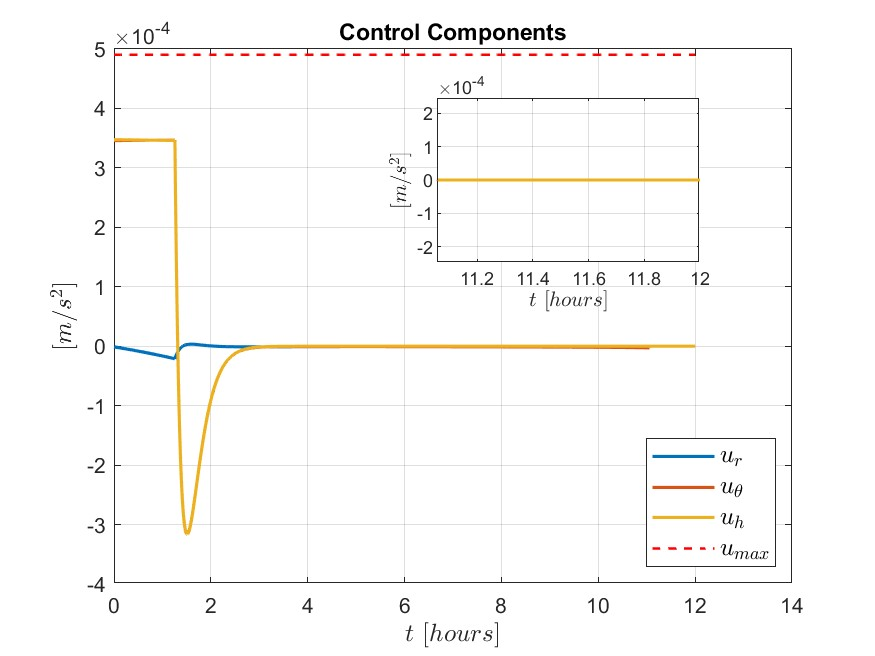
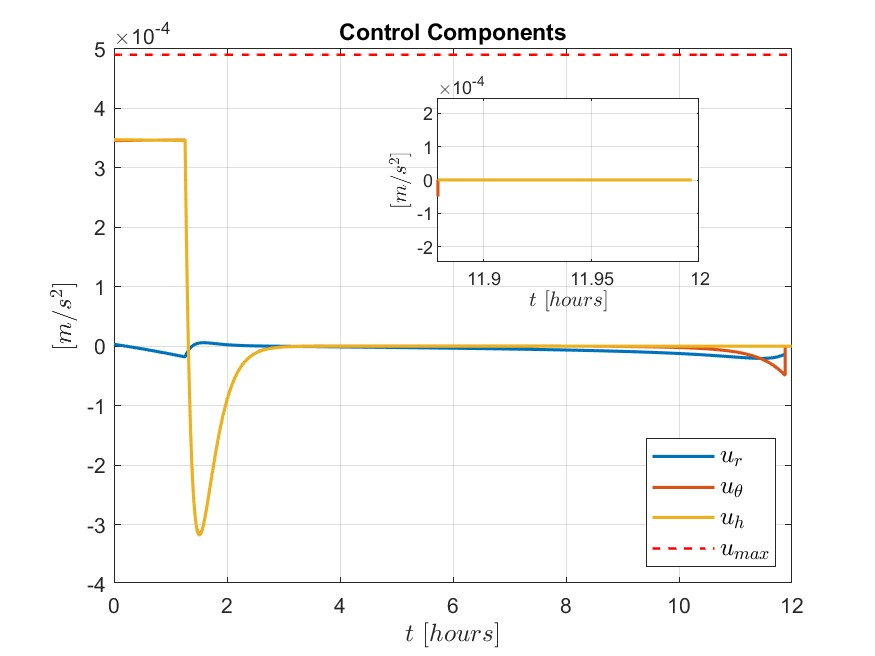
Tc saturation and bug fixes
- added saturation on the value of Tc
- fixed a bug with compute_target

diff --git a/main.m b/main.m
@@ -79,9 +79,6 @@ if opt.compute_target
     [X0t_MCI, COE0t, MEE0t, EarthPPsMCI, DSGPPsMCI, SunPPsMCI, MoonPPsECI, time, t0, tf, opt.N] = ...
         EphemerisHandlerExp(deltaE, psiM, deltaM, opt.N, date0, datef);
     
-    % Combine the Target and Chaser States into TC ~ [Target; Chaser] State
-    TC0 = [MEE0t; RHO0_LVLH];
-    
     % Define the timespan for the propagation
     tspan_ref = linspace(t0, tf, opt.N);
     dt_ref = tspan_ref(2) - tspan_ref(1);
@@ -110,11 +107,14 @@ if opt.compute_target
 
 else
 
-    load('Data/temp/Target Propagation.mat', 'X0t_MCI', 'COE0t', 'MEE0t', 'EarthPPsMCI', 'DSGPPsMCI', 'SunPPsMCI', 'MoonPPsECI', 'time', 't0', 'tf', 'TC0', 'tspan_ref', 'dt_ref', 'MEEt_ref', 'COEt_ref', 'Xt_MCI_ref', 'omegadotPPsLVLH');
+    load('Data/temp/Target Propagation.mat', 'X0t_MCI', 'COE0t', 'MEE0t', 'EarthPPsMCI', 'DSGPPsMCI', 'SunPPsMCI', 'MoonPPsECI', 'time', 't0', 'tf', 'tspan_ref', 'dt_ref', 'MEEt_ref', 'COEt_ref', 'Xt_MCI_ref', 'omegadotPPsLVLH');
 
 end
 
 %% Direct Approach: Chaser Backwards Propagation from Final Conditions
+
+% Combine the Target and Chaser States into TC ~ [Target; Chaser] State
+TC0 = [MEE0t; RHO0_LVLH];
 
 % Define Natural Drift Propagation Settings
 optODE_back = odeset('RelTol', 1e-9, 'AbsTol', 1e-9, 'Events', @(t, Y) driftstop_back(t, Y));
@@ -294,6 +294,7 @@ Y0_rt = [TCC_rt0; Xb0; w_0; omegas_0];     % AOCS extended State
 % temporary stuff
 debug = 0;
 opt.initially_aligned = true;
+omega_n = 0.05*TU;      % rad/s
 
 
 
@@ -454,12 +455,12 @@ for branch = 1 : max_branches
     
     % % Perform the Attitude Propagation - ode113
     % [tspan_AOCS, Y_AOCS] = ode113(@(t, Y) AOCS(t, Y, EarthPPsMCI, SunPPsMCI, muM, ...
-    %     muE, muS, MoonPPsECI, deltaE, psiM, deltaM, omegadotPPsLVLH, t0, tf, RHOdPPsLVLH_rt, kp, DU, TU, MU, TCC_PPs, omega_cPPs_rt, omegadot_cPPs_rt, Q_N2C_PPs_rt, sign_qe0_0, misalignment, opt.show_progress, 1), ...
+    %     muE, muS, MoonPPsECI, deltaE, psiM, deltaM, omegadotPPsLVLH, t0, tf, RHOdPPsLVLH_rt, kp, omega_n, DU, TU, MU, TCC_PPs, omega_cPPs_rt, omegadot_cPPs_rt, Q_N2C_PPs_rt, sign_qe0_0, misalignment, opt.show_progress, 1), ...
     %     tspan_AOCS, Y0_rt, optODE_AOCS);
     
     % Perform the Attitude Propagation - odeHam
     [tspan_AOCS, Y_AOCS] = odeHamHPC(@(t, Y) AOCS(t, Y, EarthPPsMCI, SunPPsMCI, muM, ...
-        muE, muS, MoonPPsECI, deltaE, psiM, deltaM, omegadotPPsLVLH, t0, tf, RHOdPPsLVLH_rt, kp, DU, TU, MU, TCC_PPs, omega_cPPs_rt, omegadot_cPPs_rt, Q_N2C_PPs_rt, sign_qe0_0, misalignment, opt.show_progress, 0), ...
+        muE, muS, MoonPPsECI, deltaE, psiM, deltaM, omegadotPPsLVLH, t0, tf, RHOdPPsLVLH_rt, kp, omega_n, DU, TU, MU, TCC_PPs, omega_cPPs_rt, omegadot_cPPs_rt, Q_N2C_PPs_rt, sign_qe0_0, misalignment, opt.show_progress, 0), ...
         [t0_AOCS, tf_AOCS], Y0_rt, length(tspan_AOCS)-1);
     
     % Retrieve Attitude Evolution
@@ -480,7 +481,7 @@ for branch = 1 : max_branches
 
         % AOCS Reconstruction
         [~, ~, ~, ~, u_AOCS(j, :), ~, ~, ~, ~, Tc_AOCS(j, :), xb_AOCS(j, :)] = AOCS(tspan_AOCS(j), Y_AOCS(j, :)', EarthPPsMCI, SunPPsMCI, muM, ...
-        muE, muS, MoonPPsECI, deltaE, psiM, deltaM, omegadotPPsLVLH, t0, tf, RHOdPPsLVLH_rt, kp, DU, TU, MU, TCC_PPs, omega_cPPs_rt, omegadot_cPPs_rt, Q_N2C_PPs_rt, sign_qe0_0, misalignment, 0, 1);
+        muE, muS, MoonPPsECI, deltaE, psiM, deltaM, omegadotPPsLVLH, t0, tf, RHOdPPsLVLH_rt, kp, omega_n, DU, TU, MU, TCC_PPs, omega_cPPs_rt, omegadot_cPPs_rt, Q_N2C_PPs_rt, sign_qe0_0, misalignment, 0, 1);
 
         % Attitude Reconstruction
         Q_N2C_AOCS(j, :) = ppsval(Q_N2C_PPs_rt, tspan_AOCS(j));
@@ -537,10 +538,10 @@ for branch = 1 : max_branches
     u_rt_norm_stack = [u_rt_norm_stack; u_rt_norm];
     u_AOCS_norm_stack = [u_AOCS_norm_stack; u_AOCS_norm];
 
-    fprintf('Propagating from t0 = %.4f min to tf = %.4f min\n', ([t0_AOCS, tf_AOCS]-t0)*TU/60)
+    fprintf('Branch %.0f: from t0 = %.4f min to tf = %.4f min\n', branch, ([t0_AOCS, tf_AOCS]-t0)*TU/60)
 
     % In-Step Visualization
-    if debug && branch >= 6
+    if debug
 
         close all
 
@@ -861,7 +862,7 @@ for i = 1 : size(RHO_LVLH, 1)
         % AOCS Reconstruction
         [~, ~, ~, ~, u_AOCS(s, :), ~, ~, ~, ~, Tc(s, :), ~] = ...
             AOCS(tspan_ctrl(s), Y_ctrl(s, :)', EarthPPsMCI, SunPPsMCI, muM, ...
-            muE, muS, MoonPPsECI, deltaE, psiM, deltaM, omegadotPPsLVLH, t0, tf, RHOdPPsLVLH_T(:, k), kp, DU, TU, MU, TCC_PPs_stack(:, k), omega_cPPs_rt_stack(:, k), omegadot_cPPs_rt_stack(:, k), Q_N2C_PPs_rt_stack(:, k), sign_qe0_0_stack(k), misalignment, 0, 1);
+            muE, muS, MoonPPsECI, deltaE, psiM, deltaM, omegadotPPsLVLH, t0, tf, RHOdPPsLVLH_T(:, k), kp, omega_n, DU, TU, MU, TCC_PPs_stack(:, k), omega_cPPs_rt_stack(:, k), omegadot_cPPs_rt_stack(:, k), Q_N2C_PPs_rt_stack(:, k), sign_qe0_0_stack(k), misalignment, 0, 1);
 
         kp_store(i) = kp;
         u_norms(i) = norm(u(i, :));
@@ -919,8 +920,9 @@ load('Data/temp/Post-Processed Propagation.mat');
 clc
 
 
-opt.saveplots = true;
+opt.saveplots = false;
 opt.showgui = false;
+opt.additional_plots = true;
 
 try
     close(results_gui)

diff --git a/AOCS.m b/AOCS.m
@@ -1,12 +1,15 @@
 function [dY, omega_LVLH, omegadot_LVLH, apc_LVLHt, u, rhod_LVLH,...
     rhodotd_LVLH, rhoddotd_LVLH, f_norm, Tc, xb_LVLH] = AOCS(t, Y, EarthPPsMCI, SunPPsMCI, muM, muE, muS, MoonPPsECI, deltaE, ...
-    psiM, deltaM, omegadotPPsLVLH, t0, tf, ppXd, kp, DU, TU, MU, TCC_PPs, omega_cPPs, omegadot_cPPs, Q_N2C_PPs, sign_qe0_0, misalignment, clock, is_col)
+    psiM, deltaM, omegadotPPsLVLH, t0, tf, ppXd, kp, omega_n, DU, TU, MU, TCC_PPs, omega_cPPs, omegadot_cPPs, Q_N2C_PPs, sign_qe0_0, misalignment, clock, is_col)
 
 % -------------------- Orbital Control -------------------- %
 
 % ----- Natural Relative Motion ----- %
 
 global pbar
+
+% Define Attitude Saturation Torque
+Tc_max = 1/(1e6*DU^2/TU^2*MU);      % 1 Nm
 
 % Initialize State Derivative
 dY = zeros(24, 1); 
@@ -130,8 +133,8 @@ Jc = [900, 50, -100;...
       -100, 150, 1250]*1e-6/(DU^2*MU);       % (kg) m^2
 
 % Gain Parameters
-omega_n = 0.1*TU;       % rad/s
-omega_n = 0.05*TU;      
+% omega_n = 0.1*TU;       % rad/s
+% omega_n = 0.05*TU;      
 xi = 1;
 c1 = 2 * omega_n^2;
 c2 = 2*xi*omega_n/c1;
@@ -168,6 +171,10 @@ Mc = 0;         % no external torques applied on the chaser
 
 % Compute Commanded Torque
 Tc = skew(w)*Jc*w - Mc + Jc*wc_dot - Jc*invA*B*wd - sign_qe0_0*Jc*invA*qe;
+
+if norm(Tc) > Tc_max
+    Tc = Tc_max * (Tc/norm(Tc));
+end
 
 
 % Compute Attitude State Derivatives
